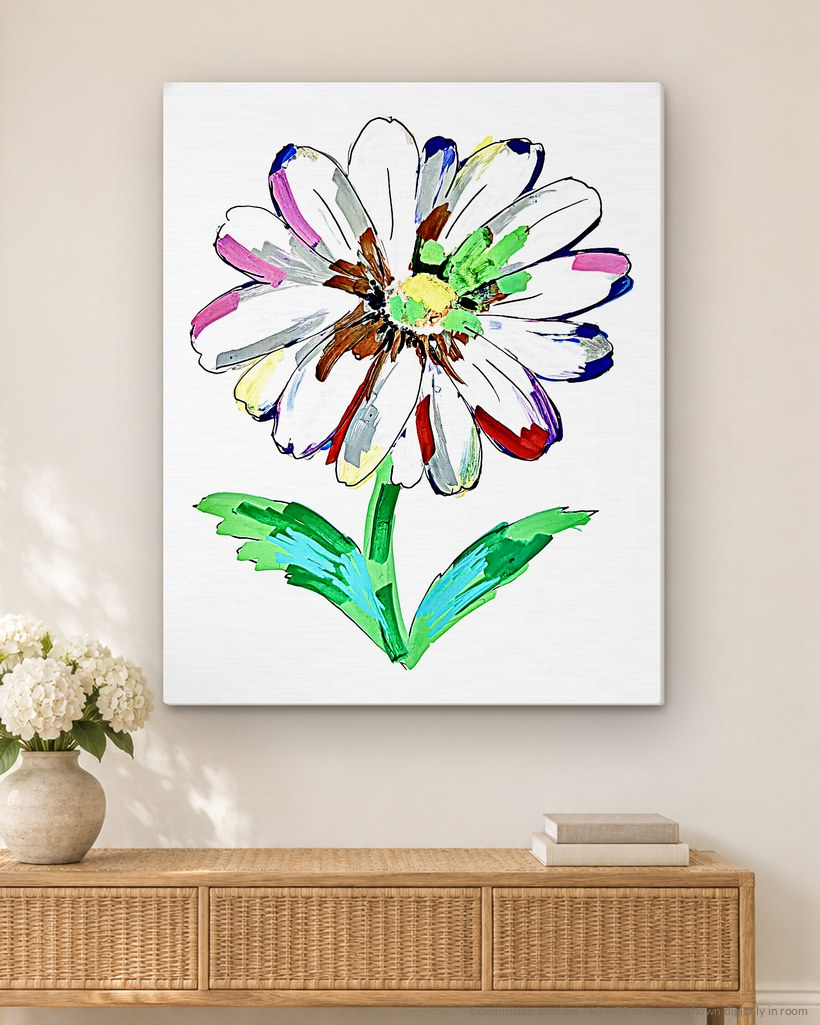
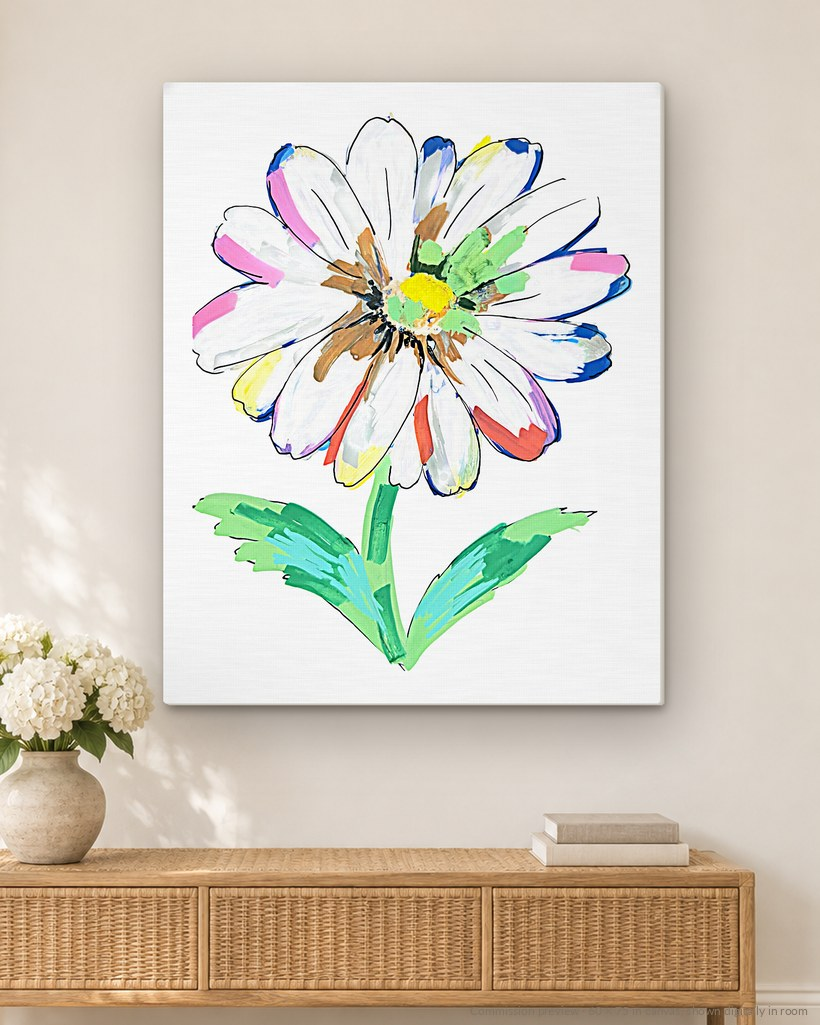
Shasta Daisy: new photo edit (Home + Commissions)

Changed region(s): [[0.2134, 0.1249, 0.7927, 0.6556], [0.4573, 0.0937, 0.4878, 0.1249]]

diff --git a/commissions.html b/commissions.html
@@ -163,7 +163,7 @@ h1{line-height:36px}
 <button class="arr l" aria-label="Previous">&lsaquo;</button>
 <div class="lib">
 <!--GALLERY-->
-<a class="card" href="com_v_shasta.jpg?v=4"><img src="com_r_shasta.jpg" alt="Shasta Daisy" loading="lazy"><span>Shasta Daisy</span></a>
+<a class="card" href="com_v_shasta.jpg?v=5"><img src="com_r_shasta.jpg?v=5" alt="Shasta Daisy" loading="lazy"><span>Shasta Daisy</span></a>
 <a class="card" href="com_v_fmn.jpg"><img src="com_r_fmn.jpg" alt="Forget Me Not" loading="lazy"><span>Forget Me Not</span></a>
 <a class="card" href="com_v_swp.jpg"><img src="com_r_swp.jpg" alt="Sweet Pea" loading="lazy"><span>Sweet Pea</span></a>
 <a class="card" href="com_v_cos.jpg"><img src="com_r_cos.jpg" alt="Cosmos" loading="lazy"><span>Cosmos</span></a>
@@ -211,7 +211,7 @@ lb.addEventListener('touchend',function(e){if(x0===null)return;var d=e.changedTo
 fetch('/',{cache:'no-cache'}).then(function(r){return r.text()}).then(function(t){
 var d=new DOMParser().parseFromString(t,'text/html'),cs=d.querySelectorAll('.lib .card');if(!cs.length)return;var h='';
 [].forEach.call(cs,function(c){var im=c.querySelector('img'),n=((c.querySelector('span')||{}).textContent||im.alt).trim(),k=K[n.toLowerCase()],e=n.replace(/[&<>"]/g,function(m){return{'&':'&amp;','<':'&lt;','>':'&gt;','"':'&quot;'}[m]});
-h+=k?'<a class="card" href="com_v_'+k+'.jpg'+(k=='shasta'?'?v=4':'')+'"><img src="com_r_'+k+'.jpg" alt="'+e+'" loading="lazy"><span>'+e+'</span></a>':'<a class="card" href="'+c.getAttribute('href')+'"><img src="'+im.getAttribute('src')+'" alt="'+e+'" loading="lazy"><span>'+e+'</span></a>'});
+h+=k?'<a class="card" href="com_v_'+k+'.jpg'+(k=='shasta'?'?v=5':'')+'"><img src="com_r_'+k+'.jpg'+(k=='shasta'?'?v=5':'')+'" alt="'+e+'" loading="lazy"><span>'+e+'</span></a>':'<a class="card" href="'+c.getAttribute('href')+'"><img src="'+im.getAttribute('src')+'" alt="'+e+'" loading="lazy"><span>'+e+'</span></a>'});
 lib.innerHTML=h;if(window.fit)fit()}).catch(function(){})})();
 </script>
 </body>

diff --git a/index.html b/index.html
@@ -152,7 +152,7 @@ h1{line-height:36px}
 <button class="arr l" aria-label="Previous">&lsaquo;</button>
 <div class="lib">
 <!--GALLERY-->
-<a class="card" href="com_v_shasta.jpg?v=4"><img class="cv" src="com_v_shasta.jpg?v=4" alt="Shasta Daisy" loading="lazy"><span>Shasta Daisy</span></a>
+<a class="card" href="com_v_shasta.jpg?v=5"><img class="cv" src="com_v_shasta.jpg?v=5" alt="Shasta Daisy" loading="lazy"><span>Shasta Daisy</span></a>
 <a class="card" href="com_v_fmn.jpg"><img class="cv" src="com_v_fmn.jpg" alt="Forget Me Not" loading="lazy"><span>Forget Me Not</span></a>
 <a class="card" href="com_v_swp.jpg"><img class="cv" src="com_v_swp.jpg" alt="Sweet Pea" loading="lazy"><span>Sweet Pea</span></a>
 <a class="card" href="com_v_cos.jpg"><img class="cv" src="com_v_cos.jpg" alt="Cosmos" loading="lazy"><span>Cosmos</span></a>
